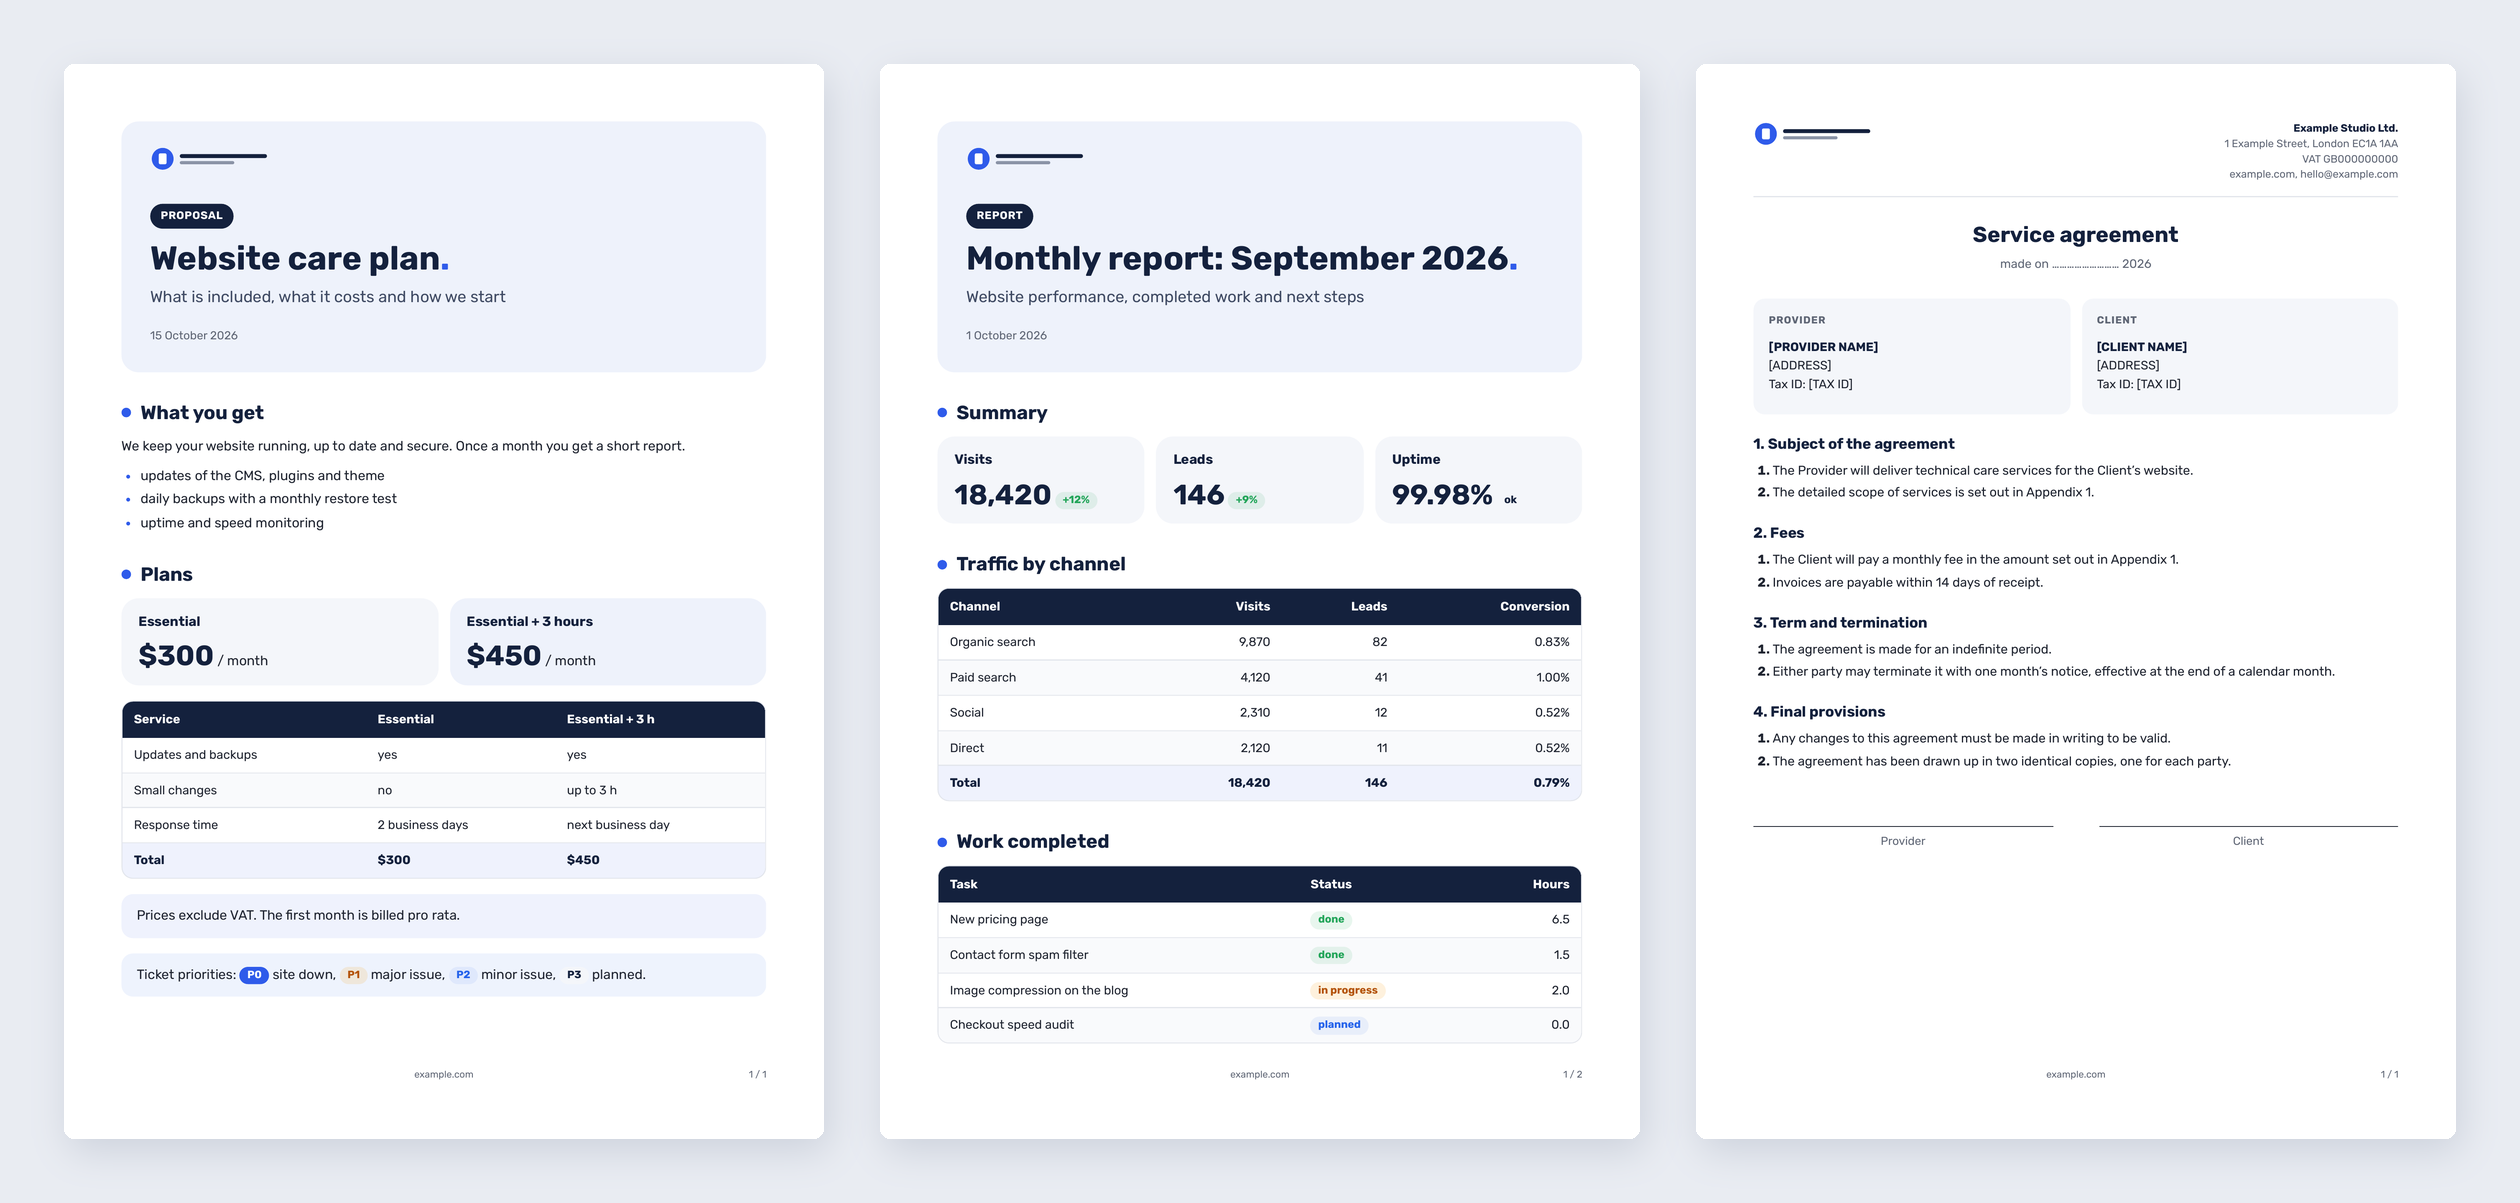
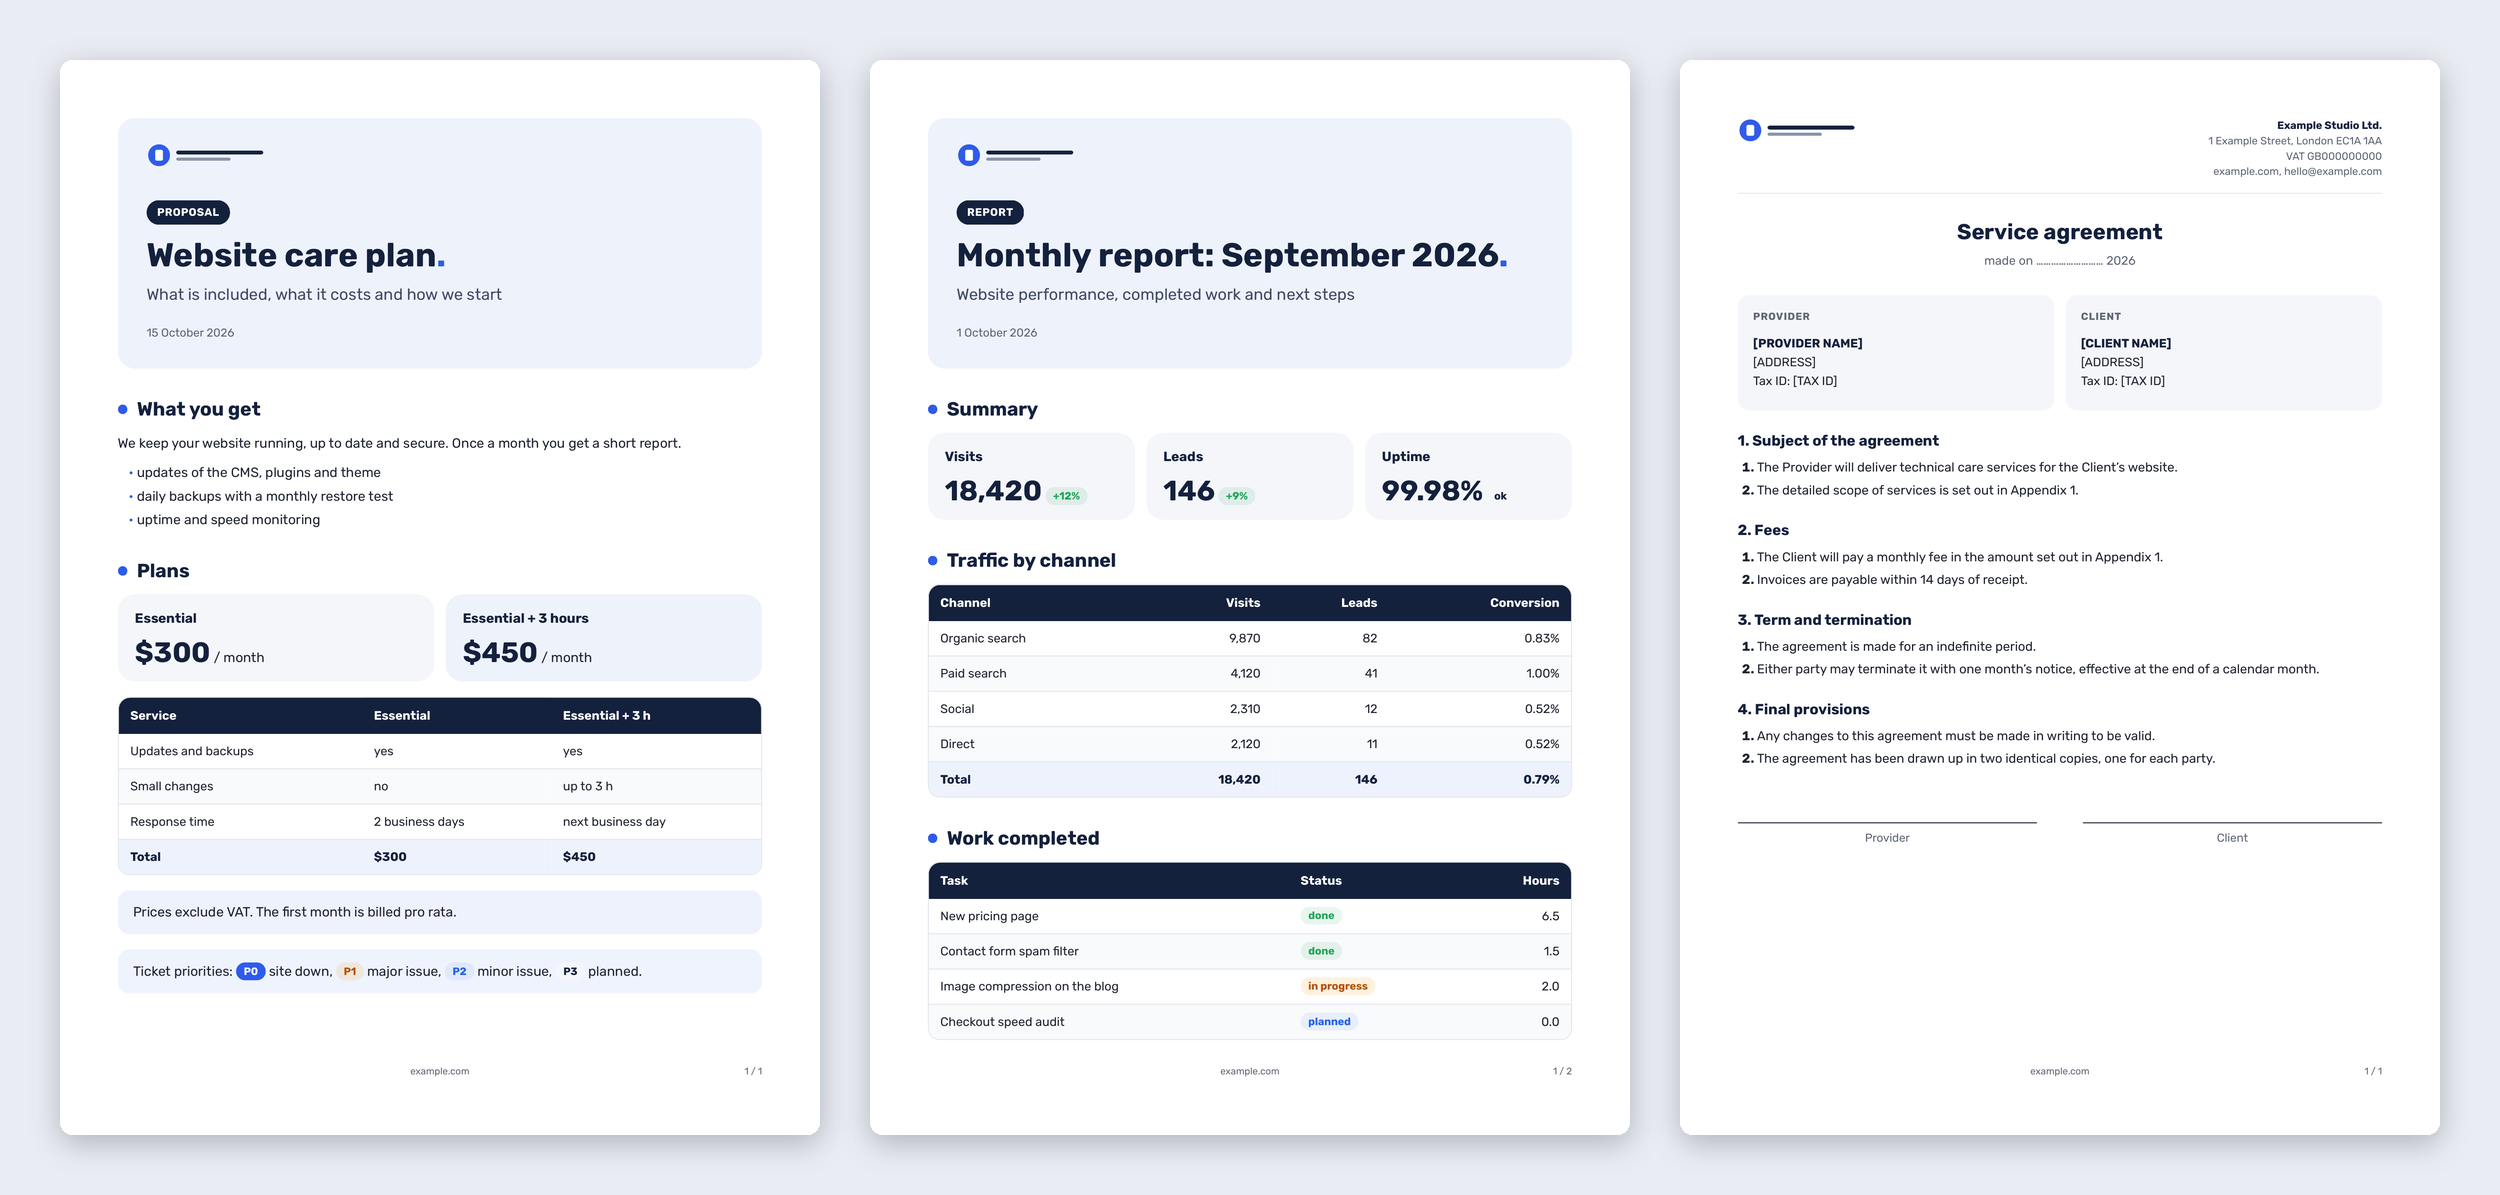
Render with WeasyPrint instead of Chromium/Playwright
No browser download; same look. Total rows and screenshots are marked with
classes in Python, mixed colors computed in Python (no :has, no color-mix).

diff --git a/skills/letterhead/engine/base.css b/skills/letterhead/engine/base.css
@@ -6,7 +6,6 @@
   --blue: #2563eb;  --blue-bg: rgba(37, 99, 235, 0.08);
   --green: #22a559; --green-bg: rgba(34, 165, 89, 0.10);
   --amber: #b45309; --amber-bg: rgba(245, 158, 11, 0.14);
-  --accent-bg: color-mix(in srgb, var(--c-accent) 8%, transparent);
 }
 
 /* Page size, margins and footer (@page with @bottom-* boxes) are added by letterhead.py,
@@ -86,11 +85,17 @@ table {
   border: 1px solid var(--c-lines); border-radius: var(--r-md); overflow: hidden;
   margin: 10px 0 16px; font-size: 9.6pt; break-inside: avoid;
 }
+thead tr { background: var(--c-dark); }
 thead th { background: var(--c-dark); color: var(--c-on-dark); font-weight: 700; text-align: left; padding: 9px 12px; }
 td { padding: 8px 12px; vertical-align: top; border-top: 1px solid var(--c-lines); }
-tbody tr:nth-child(even) td { background: color-mix(in srgb, var(--c-card) 55%, #fff); }
+tbody tr:nth-child(even) td { background: var(--zebra); }
 tbody tr:first-child td { border-top: none; }
-tbody tr:has(> td:first-child > strong:only-child) td { background: var(--accent-bg); }
+/* Rounded corners on the corner cells too, since overflow: hidden does not clip them in every renderer */
+thead tr:first-child th:first-child { border-top-left-radius: var(--r-md); }
+thead tr:first-child th:last-child { border-top-right-radius: var(--r-md); }
+tbody tr:last-child td:first-child { border-bottom-left-radius: var(--r-md); }
+tbody tr:last-child td:last-child { border-bottom-right-radius: var(--r-md); }
+tbody tr.total td { background: var(--accent-bg); }
 th[style*="right"], td[style*="right"] { white-space: nowrap; }
 
 /* ---------- Blocks ---------- */
@@ -183,5 +188,5 @@ body.type-letter .subject { font-weight: 700; color: var(--c-headings); margin-b
 .letter-signature .role { color: var(--c-muted); margin: 0; font-size: 9.5pt; }
 
 /* A paragraph right before a screenshot never stays alone at the bottom of a page */
-p:has(+ p > img:only-child), h2 + p:has(+ p > img:only-child) { break-after: avoid; }
-p:has(> img:only-child) { break-inside: avoid; margin: 6px 0 14px; }
+p.before-shot { break-after: avoid; }
+p.shot { break-inside: avoid; margin: 6px 0 14px; }

diff --git a/skills/letterhead/engine/letterhead.py b/skills/letterhead/engine/letterhead.py
@@ -1,5 +1,5 @@
 #!/usr/bin/env python3
-"""Letterhead: Markdown -> PDF in a company's branding (pandoc -> HTML -> Chromium/Playwright).
+"""Letterhead: Markdown -> PDF in a company's branding (pandoc -> HTML -> WeasyPrint).
 
   python3 letterhead.py brands                          # list brands and their status
   python3 letterhead.py pdf doc.md --brand example      # doc.pdf next to it (brand can also be in frontmatter)
@@ -10,7 +10,7 @@
 
 Document types (frontmatter `type:` or --type): document (default: proposal, report), contract, guide, letter.
 """
-import base64, argparse, html, pathlib, re, shutil, subprocess, sys, tempfile, urllib.parse
+import base64, argparse, html, mimetypes, pathlib, re, shutil, subprocess, sys, urllib.parse
 
 import yaml
 
@@ -49,6 +49,12 @@ def lum(hexc):
     r, g, b = (int(h[i:i + 2], 16) / 255 for i in (0, 2, 4))
     f = lambda c: c / 12.92 if c <= 0.03928 else ((c + 0.055) / 1.055) ** 2.4
     return 0.2126 * f(r) + 0.7152 * f(g) + 0.0722 * f(b)
+
+def mix(a, b, share):
+    """Hex color: share of a, the rest b (the renderer has no color-mix())."""
+    a, b = a.lstrip("#"), b.lstrip("#")
+    return "#" + "".join(f"{round(int(a[i:i + 2], 16) * share + int(b[i:i + 2], 16) * (1 - share)):02x}"
+                         for i in (0, 2, 4))
 
 def contrast(a, b):
     la, lb = sorted((lum(a), lum(b)), reverse=True)
@@ -124,6 +130,8 @@ def brand_css(b, meta):
     return "\n".join(faces) + f"""
 :root {{
 {variables}
+  --accent-bg: {mix(c['accent'], '#ffffff', 0.08)};
+  --zebra: {mix(c['card'], '#ffffff', 0.55)};
   --font: '{f['family']}', sans-serif;
   --w-headings: {f.get('heading_weight', 700)};
   --tracking-headings: {f.get('heading_tracking', '0')};
@@ -218,6 +226,16 @@ def frontmatter(text):
         return {}, text
     return yaml.safe_load(m.group(1)) or {}, text[m.end():]
 
+def mark_up(frag):
+    """Classes for what CSS would otherwise need :has() for (the renderer does not support it)."""
+    # A row whose first cell is only bold text is a total row.
+    frag = re.sub(r'<tr(?: class="([^"]*)")?>(\s*<td[^>]*><strong>[^<]*</strong></td>)',
+                  lambda m: f'<tr class="{(m[1] or "") + " total"}">{m[2]}', frag)
+    # A paragraph holding only a screenshot, and the paragraph right before it.
+    frag = re.sub(r'<p>(<img [^>]*>)</p>', r'<p class="shot">\1</p>', frag)
+    frag = re.sub(r'<p>((?:(?!</p>).)*)</p>(\s*<p class="shot">)', r'<p class="before-shot">\1</p>\2', frag, flags=re.S)
+    return frag
+
 def build_html(src, b, kind, meta, body):
     if meta.get("title") and kind != "letter":
         body = re.sub(r"\A\s*# [^\n]*\n", "", body, count=1)
@@ -226,6 +244,7 @@ def build_html(src, b, kind, meta, body):
     frag = subprocess.run(
         ["pandoc", "-f", "markdown+pipe_tables+fenced_divs+bracketed_spans+smart-implicit_figures-raw_html-raw_attribute", "-t", "html5"],
         input=body, capture_output=True, text=True, check=True).stdout
+    frag = mark_up(frag)
     marker = (b.get("style") or {}).get("heading_marker", "dot")
     css = brand_css(b, meta) + BASE_CSS.read_text()
     extra = b["_dir"] / "extra.css"
@@ -237,43 +256,46 @@ def build_html(src, b, kind, meta, body):
 <body class="type-{kind} marker-{marker} brand-{b['_slug']}">
 {header(meta, b, kind)}{frag}{closing(meta, b, kind)}</body></html>"""
 
-def allowed(url, dirs):
-    """May the browser load this URL: data:, or a file inside the document, skill or --files directories."""
-    if url.startswith("data:"):
-        return True
+def local_path(url, dirs):
+    """The file a file: URL points to, if it lies inside the document, skill or --files directories; else None."""
     if not url.startswith("file:"):
-        return False
-    # Unusual URLs are rejected instead of interpreted, so Python and Chromium cannot read them differently:
-    # non-local host, query, backslash, encoded slash or NUL, a . or .. segment.
+        return None
+    # Unusual URLs are rejected instead of interpreted: non-local host, query, backslash,
+    # encoded slash or NUL, a . or .. segment.
     u = urllib.parse.urlsplit(url)
     if u.netloc not in ("", "localhost") or u.query or "\\" in u.path:
-        return False
+        return None
     if any(z in u.path.lower() for z in ("%2f", "%5c", "%00")):
-        return False
+        return None
     raw = urllib.parse.unquote(u.path)
     if any(s in (".", "..") for s in raw.split("/")):
-        return False
+        return None
     path = pathlib.Path(raw).resolve()
-    return any(path.is_relative_to(k) for k in dirs)
+    if path.is_file() and any(path.is_relative_to(k) for k in dirs):
+        return path
+    return None
 
 def render(doc, out, dirs=()):
-    from playwright.sync_api import sync_playwright
-    with tempfile.TemporaryDirectory() as tmp:
-        dirs = [pathlib.Path(k).resolve() for k in (*dirs, ROOT, tmp)]
-        page = pathlib.Path(tmp) / "doc.html"
-        page.write_text(doc)
-        with sync_playwright() as p:
-            br = p.chromium.launch()
-            # Document content cannot run scripts or reach the network: local files and data: only.
-            ctx = br.new_context(java_script_enabled=False)
-            # Images only from the document directory (and below), the skill, or --files.
-            ctx.route("**/*", lambda r: r.continue_() if allowed(r.request.url, dirs) else r.abort())
-            pg = ctx.new_page()
-            pg.goto(page.as_uri())
-            pg.wait_for_load_state("networkidle")
-            pg.evaluate("document.fonts.ready")
-            pg.pdf(path=str(out), print_background=True, prefer_css_page_size=True)
-            br.close()
+    from weasyprint import HTML
+    from weasyprint.urls import URLFetcher, URLFetcherResponse
+
+    dirs = [pathlib.Path(k).resolve() for k in (*dirs, ROOT)]
+
+    class Fetcher(URLFetcher):
+        # Document content cannot reach the network: data: URLs and local files only, and files
+        # only from the document directory (and below), the skill, or --files. The file is read
+        # here, from the path that was checked, so nothing else interprets the URL.
+        def fetch(self, url, headers=None):
+            if url.startswith("data:"):
+                return super().fetch(url, headers)
+            path = local_path(url, dirs)
+            if path is None:
+                raise ValueError(f"blocked: {url}")
+            kind = mimetypes.guess_type(path.name)[0] or "application/octet-stream"
+            return URLFetcherResponse(path.as_uri(), path.read_bytes(), {"Content-Type": kind})
+
+    # WeasyPrint runs no JavaScript, so scripts in the document are inert.
+    HTML(string=doc, base_url=dirs[0].as_uri() + "/", url_fetcher=Fetcher()).write_pdf(str(out), presentational_hints=True)
 
 def make_pdf(src, brand=None, kind=None, out=None, keep_html=False, files=()):
     src = pathlib.Path(src).resolve()

diff --git a/README.md b/README.md
@@ -11,11 +11,12 @@ A skill for Claude Code (and other agents that read `SKILL.md`) that turns Markd
 - **Building blocks:** tables with a highlighted total row, KPI cards, callouts, status pills, contract parties and signature lines, guide steps that never split across pages.
 - **Consistent layout:** equal 16 mm margins, the logo on page one, logomark, domain and page number in the footer of the following pages.
 - **Brand check:** `check` validates the brand (font files, color contrast, legal details for contracts).
-- **Safe rendering:** raw HTML off, JavaScript off, no network requests, images only from the document's folder.
+- **Light and safe rendering:** no browser, no JavaScript, no network requests, images only from the document's folder.
 
 ## Requirements
 
-- Python 3.10+, `pip install pyyaml playwright` and `playwright install chromium`
+- Python 3.10+ and `pip install pyyaml weasyprint` (WeasyPrint 70 or newer, no browser needed)
+- WeasyPrint's system libraries: on macOS `brew install pango` (with the python.org Python also `export DYLD_FALLBACK_LIBRARY_PATH=/opt/homebrew/lib`), on Linux see the [WeasyPrint install guide](https://doc.courtbouillon.org/weasyprint/stable/first_steps.html)
 - [pandoc](https://pandoc.org/installing.html)
 
 ## Install

diff --git a/skills/letterhead/SKILL.md b/skills/letterhead/SKILL.md
@@ -5,7 +5,7 @@ description: Branded letterhead for every PDF (contract, proposal, report, clien
 
 # Letterhead
 
-You write the content in Markdown; the brand in `brands/<slug>/` gives the look. Engine: pandoc builds HTML, Chromium (Playwright) prints the PDF. All commands:
+You write the content in Markdown; the brand in `brands/<slug>/` gives the look. Engine: pandoc builds HTML, WeasyPrint prints the PDF. All commands:
 
 ```bash
 L=${CLAUDE_SKILL_DIR}/engine/letterhead.py
@@ -66,7 +66,7 @@ The same for every brand and type. Change it in `engine/letterhead.py` (`MARGIN`
 
 ## Security
 
-The document is treated as untrusted input: raw HTML is disabled in pandoc, JavaScript is off in the browser, network requests are blocked, and files load only from the document directory, the skill and `--files` directories.
+The document is treated as untrusted input: raw HTML is disabled in pandoc, WeasyPrint runs no JavaScript, network requests are blocked, and files load only from the document directory, the skill and `--files` directories.
 
 ## New company
 
